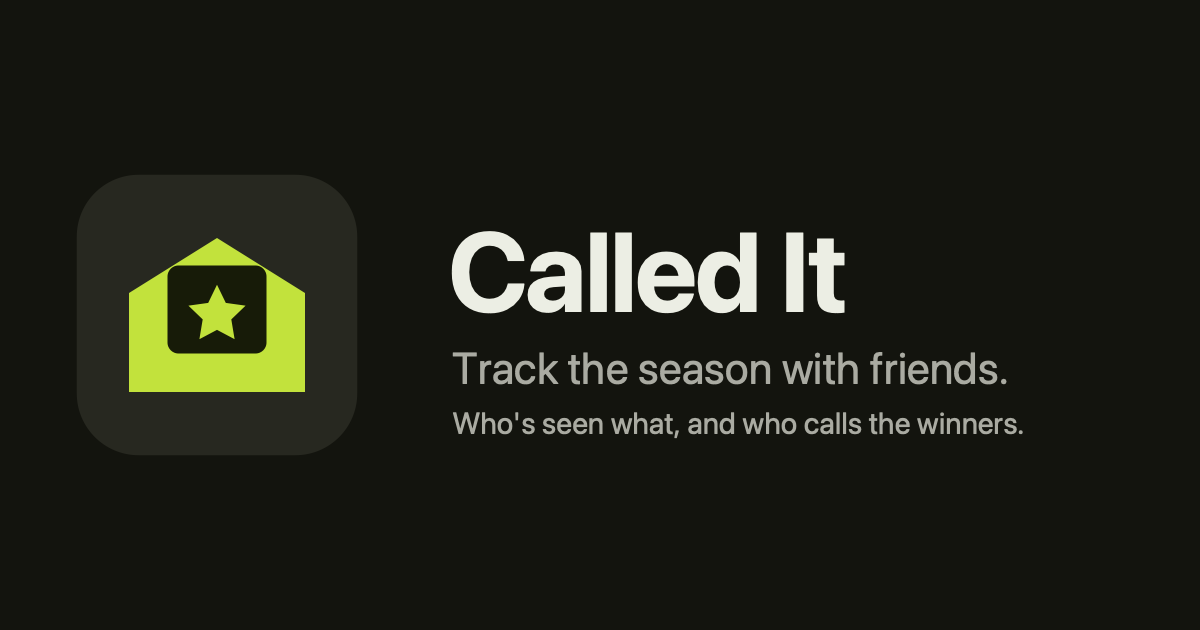
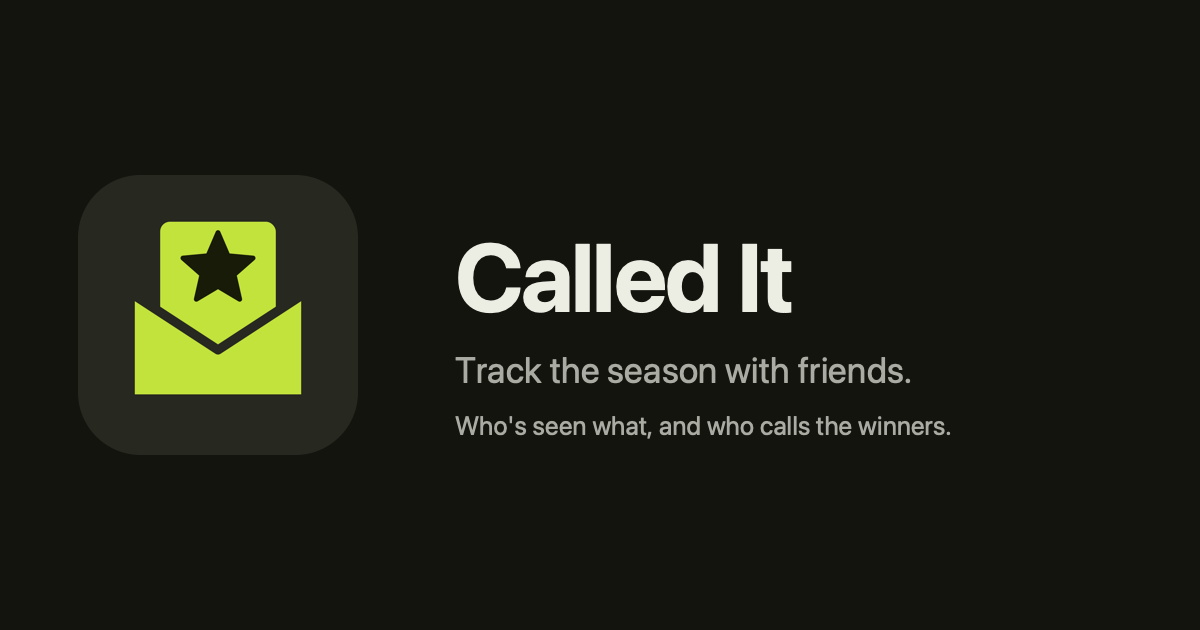
Sync web/ from CalledIt @ dd15461

diff --git a/i/index.html b/i/index.html
@@ -18,7 +18,7 @@
   <meta property="og:site_name" content="Called It">
   <meta property="og:title" content="You're invited to Called It">
   <meta property="og:description" content="Track awards-season movies with a friend: who's seen what, and who calls the winners.">
-  <meta property="og:image" content="https://calledit.dalcor.com/og.png">
+  <meta property="og:image" content="https://calledit.dalcor.com/og.png?v=2">
   <meta property="og:image:width" content="1200">
   <meta property="og:image:height" content="630">
   <meta property="og:image:alt" content="Called It — track the season with friends.">

diff --git a/index.html b/index.html
@@ -12,7 +12,7 @@
   <meta property="og:site_name" content="Called It">
   <meta property="og:title" content="Called It">
   <meta property="og:description" content="Track awards-season movies with friends: who's seen what, and who calls the winners.">
-  <meta property="og:image" content="https://calledit.dalcor.com/og.png">
+  <meta property="og:image" content="https://calledit.dalcor.com/og.png?v=2">
   <meta property="og:image:width" content="1200">
   <meta property="og:image:height" content="630">
   <meta property="og:image:alt" content="Called It — track the season with friends.">

diff --git a/README.md b/README.md
@@ -14,7 +14,7 @@ Files:
   shares since CMD-003). A real file served 200, so Messages shows a preview card from its Open
   Graph tags; GitHub Pages' 404 page gets no preview. It reads the token from the query and offers
   the `calledit://` link as a second way in.
-- `og.png` — the 1200×630 preview image both pages name (rendered from the site's mark and colours).
+- `og.png` — the 1200×630 preview image both pages name: the real app icon on the house background, rendered by `tools/render-og.swift` (CMD-003.01; re-run it when the icon or the copy changes). The pages name it as `og.png?v=N` — bump `N` when the image changes, because Messages and LinkPresentation cache a preview per page URL and the invite page's URL never changes.
 - `404.html` — GitHub Pages serves this for every path that is not a file. It still handles the
   older `/i/<token>` links (the app accepts both forms); anything else is a plain not-found.
 - `.well-known/apple-app-site-association` — Universal Links. Must be served over HTTPS, no
